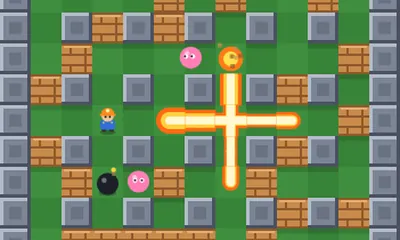
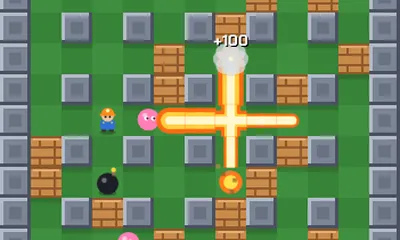
Bombász: egy nyomás egy mező
A figura mezőről mezőre lép: egy nyíl-, kereszt- vagy kontrollernyomás
pontosan egy mezőt lép, nyomva tartva mezőnként halad tovább, és mindig
mező közepén áll meg. A gyors egymás utáni nyomások sorban végrehajtódnak.
A sarok-segítéses szabad mozgás kikerült.

Tesztek: egy nyomás = egy mező billentyűvel és kontrollerrel, fal előtt
megáll, nyomva tartva több mezőt lép.

AI-generated: Claude (Anthropic)

diff --git a/bombasz/index.html b/bombasz/index.html
@@ -253,7 +253,7 @@ function startLevel(){
   G.map=L.map;G.exit=L.exit;G.items=new Map();for(const [k,t] of L.items)G.items.set(k,{t,shown:false});
   G.exitShown=false;G.bombs=[];G.flames=new Map();G.burning=new Map();G.parts=[];G.floats=[];G.shake=0;
   G.enemies=L.enemies.map(e=>({t:e.t,x:e.x,y:e.y,fx:e.x,fy:e.y,tx:e.x,ty:e.y,dx:0,dy:0,dying:0,ph:Math.random()*6}));
-  G.p={x:1,y:1,face:[0,1],walk:0,dying:0};
+  G.p={x:1,y:1,tx:1,ty:1,face:[0,1],walk:0,dying:0};stepQ.length=0;
   G.time=LEVEL_TIME;G.phase='intro';G.phaseT=1.6;G.lvScore=G.score;
   held.length=0;touchDir=null;
   save();hud();
@@ -268,29 +268,23 @@ function enemyPass(e,x,y){
   return !bombAt(x,y);
 }
 function speedP(){return 3.1+G.pw.speed*0.55}
-// rácson mozgás sarok-segítséggel: ha kicsit mellé állsz, a figura becsúszik a folyosóba
-function movePlayer(dx,dy,dist){
-  const p=G.p;
-  if(dx){
-    const cy=Math.round(p.y),cx=Math.round(p.x),off=p.y-cy;
-    if(Math.abs(off)>0.01){
-      let lane=cy;
-      if(!playerPass(cx+dx,cy)){const c2=cy+Math.sign(off);if(Math.abs(off)>0.2&&playerPass(cx+dx,c2)&&playerPass(cx,c2))lane=c2;else return}
-      const d=lane-p.y,m=Math.min(dist,Math.abs(d));p.y+=Math.sign(d)*m;dist-=m;if(Math.abs(lane-p.y)>0.01)return;p.y=lane;
+// mezőről mezőre lépés: egy nyomás pontosan egy mezőt lép, nyomva tartva mezőnként továbbmegy
+function stepPlayer(dt){
+  const p=G.p;let dist=Math.min(.45,speedP()*dt);
+  for(let guard=0;guard<3;guard++){
+    const dx=p.tx-p.x,dy=p.ty-p.y,l=Math.abs(dx)+Math.abs(dy);
+    if(l>1e-6){
+      const m=Math.min(dist,l);p.x+=Math.sign(dx)*m;p.y+=Math.sign(dy)*m;dist-=m;p.walk+=m*6;
+      if(Math.abs(p.tx-p.x)+Math.abs(p.ty-p.y)>1e-6)return;
+      p.x=p.tx;p.y=p.ty;
     }
-    const x0=Math.round(p.x);let nx=p.x+dx*dist;
-    if(!playerPass(x0+dx,Math.round(p.y)))nx=dx>0?Math.min(nx,Math.max(p.x,x0)):Math.max(nx,Math.min(p.x,x0));
-    p.x=nx;
-  }else{
-    const cx=Math.round(p.x),cy=Math.round(p.y),off=p.x-cx;
-    if(Math.abs(off)>0.01){
-      let lane=cx;
-      if(!playerPass(cx,cy+dy)){const c2=cx+Math.sign(off);if(Math.abs(off)>0.2&&playerPass(c2,cy+dy)&&playerPass(c2,cy))lane=c2;else return}
-      const d=lane-p.x,m=Math.min(dist,Math.abs(d));p.x+=Math.sign(d)*m;dist-=m;if(Math.abs(lane-p.x)>0.01)return;p.x=lane;
-    }
-    const y0=Math.round(p.y);let ny=p.y+dy*dist;
-    if(!playerPass(Math.round(p.x),y0+dy))ny=dy>0?Math.min(ny,Math.max(p.y,y0)):Math.max(ny,Math.min(p.y,y0));
-    p.y=ny;
+    // mezőn áll: jön a következő lépés (előbb a lenyomott, utána a nyomva tartott irány)
+    const d=stepQ.length?stepQ.shift():curDir();
+    if(!d)return;
+    p.face=d;
+    if(!playerPass(p.x+d[0],p.y+d[1]))return;
+    p.tx=p.x+d[0];p.ty=p.y+d[1];
+    if(dist<=0)return;
   }
 }
 function placeBomb(){
@@ -384,8 +378,8 @@ function update(dt){
   if(ph==='dying'){G.p.dying-=dt;stepWorld(dt,false);if((G.phaseT-=dt)<=0)afterDeath();return}
   // play
   G.time-=dt;if(G.time<=0){G.time=0;die();return}
-  const d=curDir(),p=G.p;
-  if(d){const bx=p.x,by=p.y;movePlayer(d[0],d[1],Math.min(.45,speedP()*dt));p.face=d;if(bx!==p.x||by!==p.y)p.walk+=dt*10}
+  const p=G.p;
+  stepPlayer(dt);
   for(const b of G.bombs)if(b.pass&&(Math.abs(p.x-b.x)>=0.99||Math.abs(p.y-b.y)>=0.99))b.pass=false;
   const pk=idx(Math.round(p.x),Math.round(p.y));
   pickup(pk);
@@ -444,7 +438,7 @@ function chooseDir(e){
   }
   e.dx=pick[0];e.dy=pick[1];e.fx=x;e.fy=y;e.tx=x+pick[0];e.ty=y+pick[1];return true;
 }
-function pause(){if(!G||(G.phase!=='play'&&G.phase!=='intro'))return;G.prev=G.phase;G.phase='pause';held.length=0;touchDir=null;showPause()}
+function pause(){if(!G||(G.phase!=='play'&&G.phase!=='intro'))return;G.prev=G.phase;G.phase='pause';held.length=0;stepQ.length=0;touchDir=null;showPause()}
 function resume(){if(!G||G.phase!=='pause')return;hideOv();G.phase=G.prev||'play';last=0}
 function hud(){
   $('score').textContent=G?G.score.toLocaleString('hu-HU'):'0';
@@ -642,7 +636,8 @@ card.addEventListener('click',e=>{
 });
 
 // ---------- irányítás ----------
-const held=[];let touchDir=null;
+const held=[],stepQ=[];let touchDir=null;
+function press(d){if(!G||G.phase!=='play'&&G.phase!=='intro')return;if(stepQ.length<2)stepQ.push(d)}
 const KEYS={ArrowUp:[0,-1],ArrowDown:[0,1],ArrowLeft:[-1,0],ArrowRight:[1,0],w:[0,-1],s:[0,1],a:[-1,0],d:[1,0],W:[0,-1],S:[0,1],A:[-1,0],D:[1,0]};
 addEventListener('keydown',e=>{
   if(!ov.hidden){
@@ -650,14 +645,14 @@ addEventListener('keydown',e=>{
     return;
   }
   const m=KEYS[e.key];
-  if(m){e.preventDefault();const i=held.findIndex(h=>h[0]===m[0]&&h[1]===m[1]);if(i>=0)held.splice(i,1);held.push(m);return}
+  if(m){e.preventDefault();const i=held.findIndex(h=>h[0]===m[0]&&h[1]===m[1]);if(i>=0)held.splice(i,1);held.push(m);if(!e.repeat)press(m);return}
   if(e.repeat)return;
   if(e.key===' '||e.code==='Space'||e.key==='j'||e.key==='J'||e.key==='Enter'){e.preventDefault();placeBomb();return}
   if(e.key==='k'||e.key==='K'||e.key==='l'||e.key==='L'){e.preventDefault();detonate();return}
   if(e.key==='Escape'||e.key==='p'||e.key==='P'){e.preventDefault();pause()}
 });
 addEventListener('keyup',e=>{const m=KEYS[e.key];if(!m)return;const i=held.findIndex(h=>h[0]===m[0]&&h[1]===m[1]);if(i>=0)held.splice(i,1)});
-addEventListener('blur',()=>{held.length=0;touchDir=null;showDpad()});
+addEventListener('blur',()=>{held.length=0;stepQ.length=0;touchDir=null;showDpad()});
 const dpad=$('dpad');let dpadId=null;
 function dpadDir(e){
   const r=dpad.getBoundingClientRect(),x=e.clientX-(r.left+r.width/2),y=e.clientY-(r.top+r.height/2);
@@ -666,8 +661,8 @@ function dpadDir(e){
 }
 function showDpad(){const d=touchDir;dpad.querySelectorAll('span').forEach(s=>{const c=s.className.replace(' on','');
   const on=d&&((c==='u'&&d[1]<0)||(c==='d'&&d[1]>0)||(c==='l'&&d[0]<0)||(c==='r'&&d[0]>0));s.className=c+(on?' on':'')})}
-dpad.addEventListener('pointerdown',e=>{e.preventDefault();dpadId=e.pointerId;try{dpad.setPointerCapture(e.pointerId)}catch(_){}touchDir=dpadDir(e);showDpad()});
-dpad.addEventListener('pointermove',e=>{if(e.pointerId!==dpadId)return;touchDir=dpadDir(e);showDpad()});
+dpad.addEventListener('pointerdown',e=>{e.preventDefault();dpadId=e.pointerId;try{dpad.setPointerCapture(e.pointerId)}catch(_){}touchDir=dpadDir(e);if(touchDir)press(touchDir);showDpad()});
+dpad.addEventListener('pointermove',e=>{if(e.pointerId!==dpadId)return;const d=dpadDir(e),o=touchDir;touchDir=d;if(d&&(!o||o[0]!==d[0]||o[1]!==d[1]))press(d);showDpad()});
 const dpadEnd=e=>{if(e.pointerId!==dpadId)return;dpadId=null;touchDir=null;showDpad()};
 dpad.addEventListener('pointerup',dpadEnd);dpad.addEventListener('pointercancel',dpadEnd);
 $('bombBtn').addEventListener('pointerdown',e=>{e.preventDefault();placeBomb()});

diff --git a/tools/play_test.py b/tools/play_test.py
@@ -1394,7 +1394,7 @@ async def sc_bomber(page):
     await page.evaluate(f"""(() => {{ const b = {B}, G = b.G; G.pw.fire = 3; G.map[b.idx(1, 4)] = 2;
         G.enemies = [{{t: 'potty', x: 3, y: 1, fx: 3, fy: 1, tx: 3, ty: 1, dx: 0, dy: 0, dying: 0, ph: 0}},
                      {{t: 'potty', x: 11, y: 13, fx: 11, fy: 13, tx: 11, ty: 13, dx: 0, dy: 0, dying: 0, ph: 0}}];
-        G.p.x = 1; G.p.y = 1; b.placeBomb(); b.explode(G.bombs[0]); }})()""")
+        G.p.x = G.p.tx = 1; G.p.y = G.p.ty = 1; b.placeBomb(); b.explode(G.bombs[0]); }})()""")
     check(await page.evaluate(f"{B}.G.burning.has({B}.idx(1, 4))"), "the flame sets the crate on fire")
     await wait_js(page, f"{B}.G.phase === 'dying'", timeout=2000)
     check(await page.evaluate(f"{B}.G.enemies[0].dying > 0"), "the flame catches the monster")
@@ -1411,12 +1411,26 @@ async def sc_bomber(page):
     await page.locator("#ov h2", has_text="Szünet").wait_for(timeout=2000)
     await page.keyboard.press("Escape")
     check(await page.locator("#ov").is_hidden(), "Escape resumes the game")
-    # walking: the arrow key moves the player along the free corridor
+    # walking: one press is exactly one square, holding the key keeps walking square by square
     x0 = await page.evaluate(f"{B}.G.p.x")
-    await hold(page, "ArrowRight", 400)
-    check(await page.evaluate(f"{B}.G.p.x") > x0 + 0.5, "the arrow key moves the player")
+    await page.keyboard.press("ArrowRight")
+    await page.wait_for_timeout(600)
+    check(await page.evaluate(f"[{B}.G.p.x, {B}.G.p.y]") == [x0 + 1, 1], "one arrow press moves exactly one square")
+    await page.keyboard.press("ArrowLeft")
+    await page.keyboard.press("ArrowRight")
+    await page.wait_for_timeout(900)
+    check(await page.evaluate(f"{B}.G.p.x") == x0 + 1, "two quick presses are two squares, there and back")
+    await hold(page, "ArrowDown", 700)
+    await page.wait_for_timeout(500)
+    y1 = await page.evaluate(f"{B}.G.p.y")
+    check(y1 == 1, f"a wall stops the step and the player stays on a square: {y1}")
+    await page.evaluate(f"(() => {{ const G = {B}.G; G.p.x = G.p.tx = 1; G.p.y = G.p.ty = 1; }})()")
+    await hold(page, "ArrowRight", 500)
+    await page.wait_for_timeout(500)
+    x1 = await page.evaluate(f"{B}.G.p.x")
+    check(x1 >= 3 and x1 == int(x1), f"holding the key walks several squares and stops on a square: {x1}")
     # every monster gone, the player on the open exit: the level is cleared
-    await page.evaluate(f"""(() => {{ const b = {B}, G = b.G; G.enemies = []; G.p.x = Math.round(G.p.x); G.p.y = 1;
+    await page.evaluate(f"""(() => {{ const b = {B}, G = b.G; G.enemies = []; G.p.x = G.p.tx = Math.round(G.p.x); G.p.y = G.p.ty = 1;
         G.exit = b.idx(G.p.x, 1); G.map[G.exit] = 0; G.exitShown = true; }})()""")
     await wait_js(page, f"{B}.G.lv === 2 && {B}.G.phase !== 'clear'", timeout=5000)
     check(json.loads(await page.evaluate("localStorage.getItem('bombasz-save')"))["lv"] == 2, "the next level is saved")
@@ -1451,8 +1465,9 @@ async def sc_bomber_gamepad(page):
     check(await page.locator("#ov").is_hidden(), "the A button starts the game from the menu")
     await wait_js(page, "__bombasz.G.phase === 'play'", timeout=4000)
     x0 = await page.evaluate("__bombasz.G.p.x")
-    await pad(page, 15, 400)                             # d-pad right walks
-    check(await page.evaluate("__bombasz.G.p.x") > x0 + 0.5, "the d-pad moves the player")
+    await pad(page, 15, 60)                              # a short d-pad press is one square
+    await page.wait_for_timeout(500)
+    check(await page.evaluate("__bombasz.G.p.x") == x0 + 1, "one d-pad press moves exactly one square")
     await pad(page, 0)                                   # A drops a bomb
     check(await page.evaluate("__bombasz.G.bombs.length") == 1, "the A button drops a bomb")
     await pad(page, 9)                                   # Start pauses
@@ -1528,7 +1543,7 @@ SCENARIOS = [
     ("kardvihar", "Blade Storm: dragging on the arena moves, a tap slashes", sc_blade_touch, None),
     ("szigetrepulo", "Island Flyer: a ring, a roll bonus, a crash, reload, broken save, game over, New game, out of fuel", sc_island, None),
     ("szigetrepulo", "Island Flyer: the mouse steers, holding it boosts, a click rolls, K changes the view", sc_island_touch, None),
-    ("bombasz", "Bomb Maze: a bomb burns a crate and a monster, costs a life, reload, pause, walking, exit, game over, New game", sc_bomber, None),
+    ("bombasz", "Bomb Maze: a bomb burns a crate and a monster, costs a life, reload, pause, one press one square, exit, game over, New game", sc_bomber, None),
     ("bombasz", "Bomb Maze: 600 generated levels pass the check", sc_bomber_levels, None),
     ("bombasz", "Bomb Maze: a game controller starts, walks, drops a bomb and pauses", sc_bomber_gamepad, None),
     ("szigetrepulo", "Island Flyer: reduced motion keeps the cockpit still, a slow device gets a coarser picture", sc_island_calm, None),

diff --git a/tools/make_covers.py b/tools/make_covers.py
@@ -39,7 +39,7 @@ PLAN = {"poke": False, "area": "#isocv",
         "js": "(() => { const b = document.querySelector('#next'); for (let i = 0; i < 99 && b && !b.disabled; i++) b.click(); })()"}
 SHOTS = {
     "bombasz": {"poke": False, "clicks": ['#card button[data-act="new"]'], "area": "#cv", "wait": 150,
-                "js": "(() => { const b = __bombasz, G = b.G; G.phase = 'play'; [[3,7],[4,7],[5,7],[6,7],[7,7],[8,7],[9,7],[7,6],[7,8],[3,8],[3,9]].forEach(([x,y]) => { if (G.map[b.idx(x,y)] === 2) G.map[b.idx(x,y)] = 0; }); G.p.x = 3; G.p.y = 7; G.p.face = [0, 1]; G.pw.fire = 2; G.bombs.push({x: 3, y: 9, t: 9, age: 0, range: 2, pass: false}); const e = {x: 7, y: 7, t: 9, age: 0, range: 2, pass: false}; G.bombs.push(e); b.explode(e); b.draw(); })()"},
+                "js": "(() => { const b = __bombasz, G = b.G; G.phase = 'play'; [[3,7],[4,7],[5,7],[6,7],[7,7],[8,7],[9,7],[7,6],[7,8],[3,8],[3,9]].forEach(([x,y]) => { if (G.map[b.idx(x,y)] === 2) G.map[b.idx(x,y)] = 0; }); G.p.x = G.p.tx = 3; G.p.y = G.p.ty = 7; G.p.face = [0, 1]; G.pw.fire = 2; G.bombs.push({x: 3, y: 9, t: 9, age: 0, range: 2, pass: false}); const e = {x: 7, y: 7, t: 9, age: 0, range: 2, pass: false}; G.bombs.push(e); b.explode(e); b.draw(); })()"},
     "falbonto": {"align": "top", "wait": 300},
     "flipper": {"poke": False, "clicks": ['#card button[data-act="new"]', '#card button[data-act="go"]'], "align": "top",
                 "js": "__flipper.G.ball.state = 'play'; __flipper.G.ball.x = 200; __flipper.G.ball.y = 180; __flipper.G.ball.vy = 300", "wait": 400},
